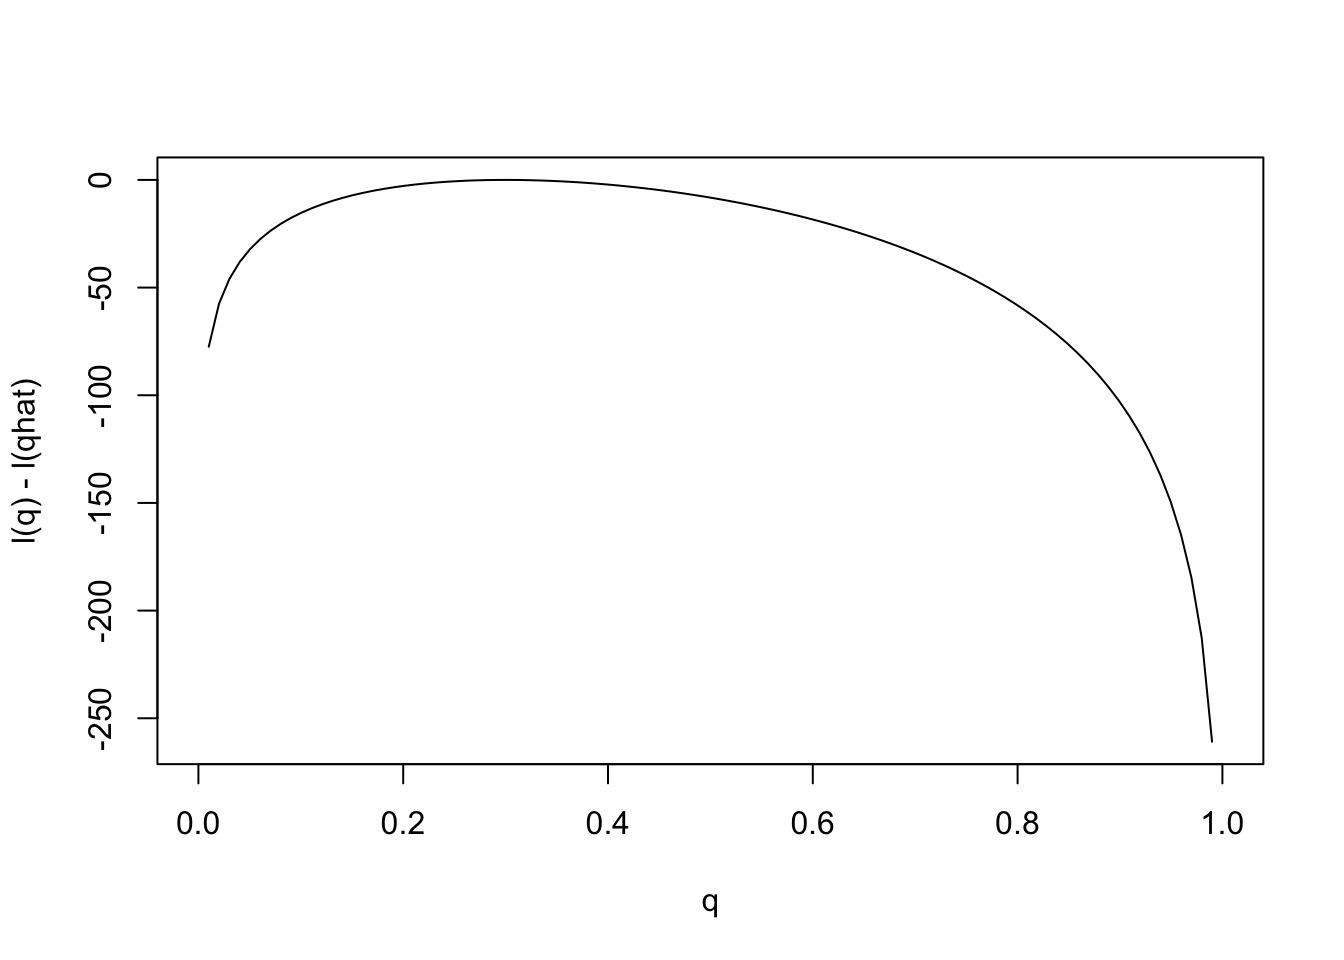
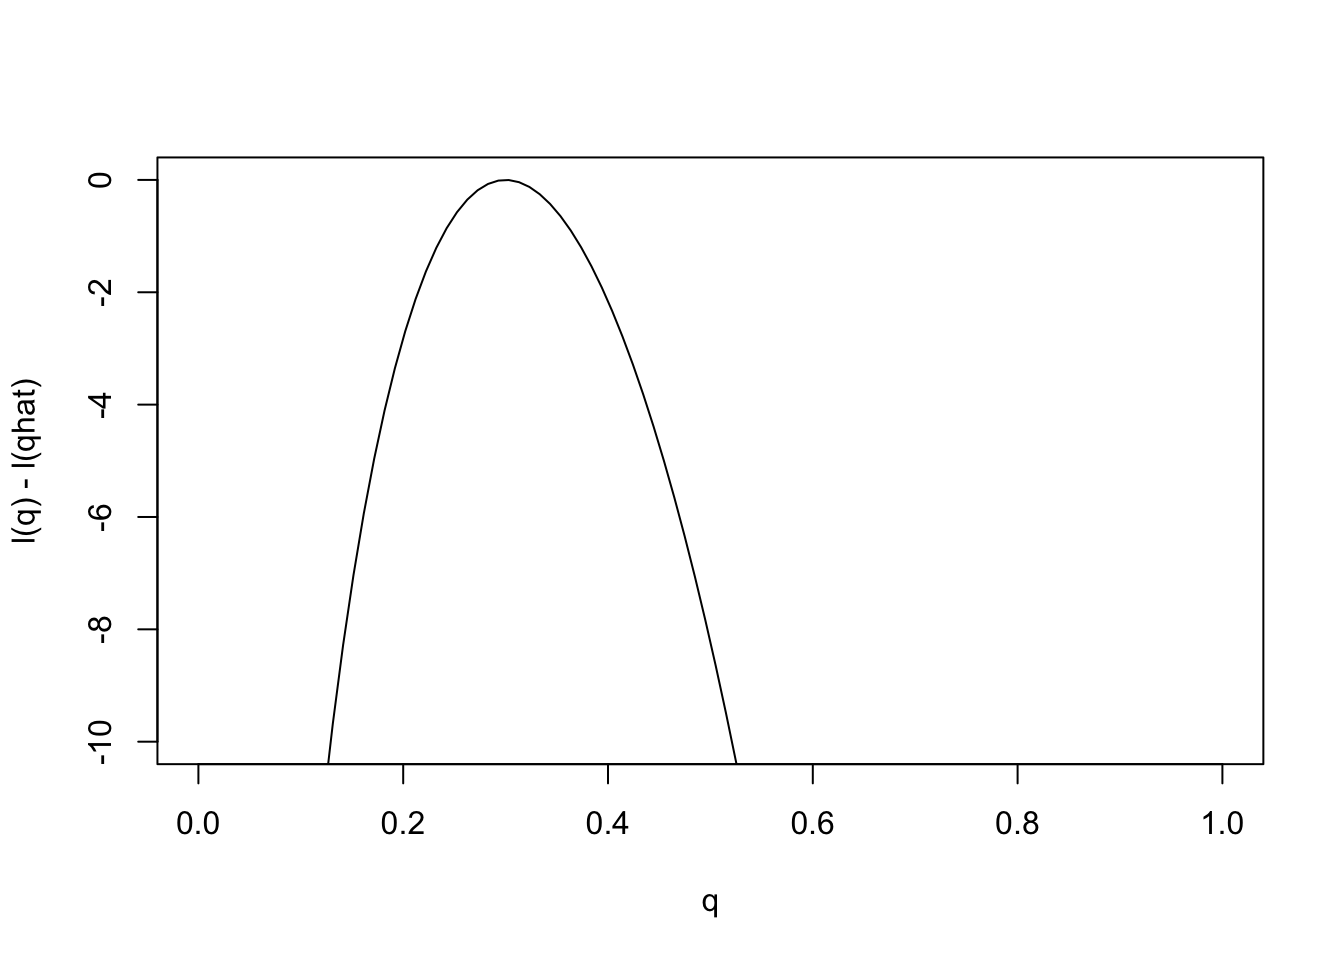
updates

diff --git a/analysis/likelihood_function.html b/analysis/likelihood_function.html
@@ -135,7 +135,7 @@ img {
 </div>
 
 <p><strong>Last updated:</strong> 2016-04-06</p>
-<p><strong>Code version:</strong> 976547dd5da60eb69143c01bfbc902f92838e68d</p>
+<p><strong>Code version:</strong> 0b0d3456aaa8844eeb177f74600a2b4f492d1754</p>
 <div id="pre-requisites" class="section level1">
 <h1>Pre-requisites</h1>
 <p>You should understand the concept of using likelihood ratio for <a href="likelihood_ratio_simple_models.html">discrete data</a> and <a href="likelihood_ratio_simple_continuous_data.html">continuous data</a> to compare support for two fully specified models.</p>
@@ -147,9 +147,9 @@ img {
 <div id="example" class="section level1">
 <h1>Example</h1>
 <p>In our example <a href="likelihood_ratio_simple_models.html">here</a> we assumed that the frequencies of different alleles (genetic types) in forest and savanna elephants were given to us. In practice these frequencies themselves would have to be estimated from data.</p>
-<p>For example, suppose we collect data on 100 savanna elephants, and see that {30} of them carry allele 1 at marker 1, while {70} carry the allele 0 (again we are treating elephants as haploid to simplify things). Intuitively we might estimate that the frequency of the 1 allele at that marker is {30}/100, or 0.3. But we might think that the data are also consistent with other frequencies near 0.3. For example maybe the data are consistent with a frequency of 0.29 also. Or 0.28? Or …</p>
+<p>For example, suppose we collect data on 100 savanna elephants, and see that 30 of them carry allele 1 at marker 1, while 70 carry the allele 0 (again we are treating elephants as haploid to simplify things). Intuitively we might estimate that the frequency of the 1 allele at that marker is 30/100, or 0.3. But we might think that the data are also consistent with other frequencies near 0.3. For example maybe the data are consistent with a frequency of 0.29 also. Or 0.28? Or …</p>
 <p>In this case we have many more than just two models to compare. Indeed, if we allow that the frequency could, in principle lie anywhere in the interval [0,1], then we have a continuum of models to compare.</p>
-<p>Specifically, for each <span class="math inline">\(q\in [0,1]\)</span> let <span class="math inline">\(M_q\)</span> denote the model that the true frequency of the 1 allele is <span class="math inline">\(q\)</span>. Then, given our observation that {30} of 100 elephants carried allele 1 at marker 1, the likelihood for model <span class="math inline">\(M_q\)</span> is, by the previous definition, <span class="math display">\[L(M_q) = \Pr(D | M_q) = q^{30} (1-q)^{70}.\]</span> And the LR comparing models <span class="math inline">\(M_{q_1}\)</span> and <span class="math inline">\(M_{q_2}\)</span> is <span class="math display">\[LR(M_{q_1};M_{q_2})) = [q_1/q_2]^{30} [(1-q_1)/(1-q_2)]^{70}.\]</span></p>
+<p>Specifically, for each <span class="math inline">\(q\in [0,1]\)</span> let <span class="math inline">\(M_q\)</span> denote the model that the true frequency of the 1 allele is <span class="math inline">\(q\)</span>. Then, given our observation that 30 of 100 elephants carried allele 1 at marker 1, the likelihood for model <span class="math inline">\(M_q\)</span> is, by the previous definition, <span class="math display">\[L(M_q) = \Pr(D | M_q) = q^{30} (1-q)^{70}.\]</span> And the LR comparing models <span class="math inline">\(M_{q_1}\)</span> and <span class="math inline">\(M_{q_2}\)</span> is <span class="math display">\[LR(M_{q_1};M_{q_2})) = [q_1/q_2]^{30} [(1-q_1)/(1-q_2)]^{70}.\]</span></p>
 <p>This is an example of what is called a parametric model. A parametric model is collection of models indexed by a parameter vector, often denoted <span class="math inline">\(\theta\)</span>, whose values lie in some parameter space, usually denoted <span class="math inline">\(\Theta\)</span>. The number of parameters included in the vector <span class="math inline">\(\theta\)</span> is called the “dimensionality” of the model or parameter space, and often denoted <span class="math inline">\(dim(\Theta)\)</span>.</p>
 <p>Here the parameter is <span class="math inline">\(q\)</span> and the parameter space is <span class="math inline">\([0,1]\)</span>. The dimensionality is 1.</p>
 <p>When computing likelihoods for parametric models, we usually dispense with the model notation and simply use the parameter value to denote the model. So instead of referring to the likelihood for <span class="math inline">\(M_q\)</span> we just say the “likelihood for <span class="math inline">\(q\)</span>”, and write <span class="math inline">\(L(q)\)</span>. So the likelihood for <span class="math inline">\(q\)</span> is given by <span class="math display">\[L(q) = q^{30} (1-q)^{70}.\]</span> Correspondingly we can also refer to the “likelihood ratio for <span class="math inline">\(q_1\)</span> vs <span class="math inline">\(q_2\)</span>”.</p>
@@ -173,8 +173,11 @@ plot(q,L(q)/L(0.3),ylab=&quot;L(q)/L(qhat)&quot;,xlab=&quot;q&quot;,type=&quot;l
 <p>Just as it can often be convenient to work with the log-likelihood ratio, it can be convenient to work with the log-likelihood function, usually denoted <span class="math inline">\(l(\theta)\)</span> [lower-case L]. As with log likelihood ratios, unless otherwise specified, we use log base e. Here is the log-likelihood function.</p>
 <pre class="r"><code>q = seq(0,1,length=100)
 l= function(q){30*log(q) + 70 * log(1-q)}
-plot(q,l(q)-l(0.3),ylab=&quot;l(q) - l(qhat)&quot;,xlab=&quot;q&quot;,type=&quot;l&quot;)</code></pre>
+plot(q,l(q)-l(0.3),ylab=&quot;l(q) - l(qhat)&quot;,xlab=&quot;q&quot;,type=&quot;l&quot;,ylim=c(-10,0))</code></pre>
 <p><img src="figure/likelihood_function.Rmd/unnamed-chunk-3-1.png" title="" alt="" width="672" style="display: block; margin: auto;" /> Changes in the log-likelihood function are referred to as “log-likelihood units”. For example the difference in the support for <span class="math inline">\(q=0.3\)</span> and <span class="math inline">\(q=0.35\)</span> is <code>l(0.3)-l(0.35)</code> = <code>0.5630377</code> log-likelihood units. Again, remember that it is differences in <span class="math inline">\(l\)</span> that matter, not the actual values.</p>
+<p>Notice that the scale of the <span class="math inline">\(y\)</span> axis in this plot was set to span 10 log likelihood units. Setting the scale in this way makes sure the plot focusses on the parts of the parameter space that have more than miniscule support from the data (in this case, LR no smaller than 1/exp(10)). Without this the plot can be much harder to read. For example, here is the plot using the default scale selected by R:</p>
+<pre class="r"><code>plot(q,l(q)-l(0.3),ylab=&quot;l(q) - l(qhat)&quot;,xlab=&quot;q&quot;,type=&quot;l&quot;)</code></pre>
+<p><img src="figure/likelihood_function.Rmd/unnamed-chunk-4-1.png" title="" alt="" width="672" style="display: block; margin: auto;" /> Notice how different this plot looks to the eye even though it is exactly the same curve being plotted (just different <span class="math inline">\(y\)</span> axis scale). It is worth thinking about what scale you use when plotting log-likelihoods (and, of course, figures in general!).</p>
 </div>
 <div id="session-information" class="section level1">
 <h1>Session information</h1>

diff --git a/analysis/decisions_costs_intro.html b/analysis/decisions_costs_intro.html
@@ -137,7 +137,7 @@ img {
 </div>
 
 <p><strong>Last updated:</strong> 2016-04-06</p>
-<p><strong>Code version:</strong> e140df9c3156bd472295f9aed936c9e8401b34cc</p>
+<p><strong>Code version:</strong> 0b0d3456aaa8844eeb177f74600a2b4f492d1754</p>
 <div id="pre-requisites" class="section level1">
 <h1>Pre-requisites</h1>
 <p>Understand the <a href="LR_and_BF.html">calculation of posterior probabilities for a simple two-class problem</a>.</p>
